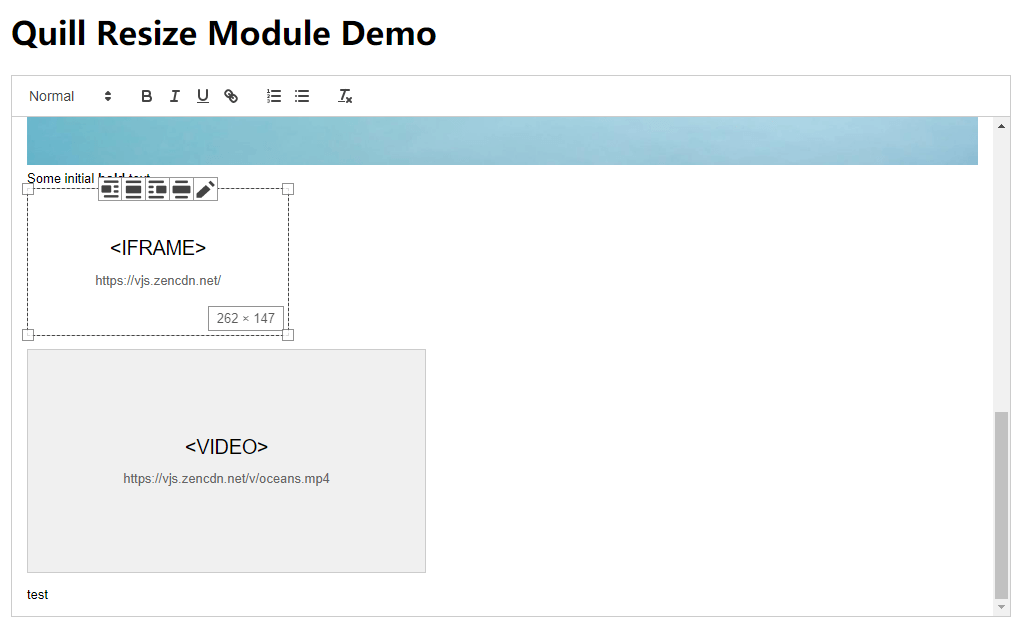
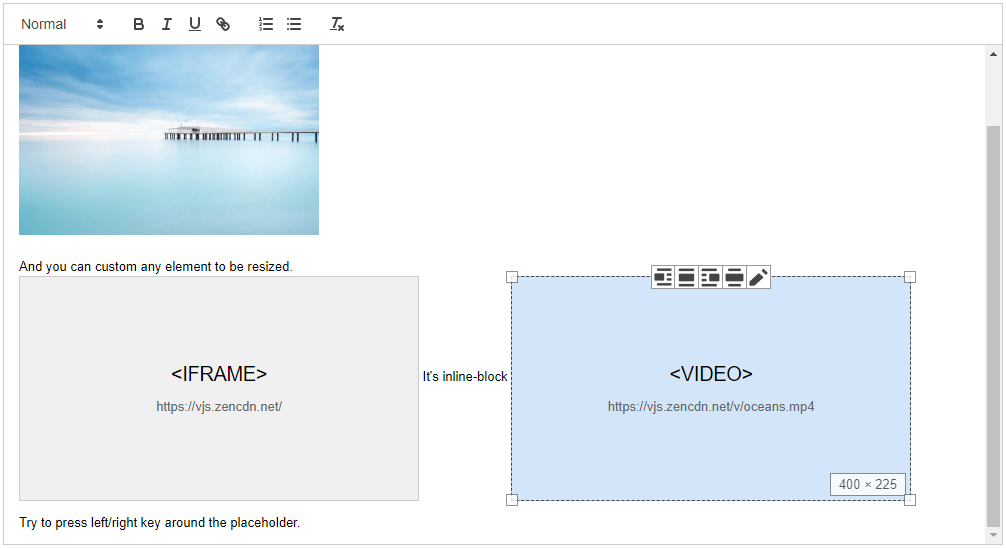
update demo

diff --git a/demo/umd.html b/demo/umd.html
@@ -52,16 +52,14 @@
   <h1>Quill Resize Module Demo</h1>
   <div class="editor-box">
     <div id="editor">
-      <p>Click on the Image Below to resize</p>
-      <p><img src="http://n.sinaimg.cn/sinacn10101/486/w2048h1638/20190518/9909-hwzkfpv0668515.jpg"></p>
-      <p>Some initial <strong>bold</strong> text</p>
-      <div>
-        <iframe src="https://vjs.zencdn.net/" frameborder="0"
-          style="background-color: transparent; width: 500px; height: 281px;"></iframe>
-        <video src="https://vjs.zencdn.net/v/oceans.mp4" controls preload="auto"
-          poster="https://vjs.zencdn.net/v/oceans.png"></video>
-      </div>
-      <div>test</div>
+      <p>Click on the Image to resize.</p>
+      <p><img src="http://n.sinaimg.cn/sinacn10101/486/w2048h1638/20190518/9909-hwzkfpv0668515.jpg" style="width: 300px;"></p>
+      <p><br></p>
+      <p>And you can custom any element to be resized.</p>
+      <p><iframe src="https://vjs.zencdn.net/" frameborder="0"></iframe>
+        It's inline-block
+        <video src="https://vjs.zencdn.net/v/oceans.mp4" controls preload="auto" poster="https://vjs.zencdn.net/v/oceans.png"></video></p>
+      <p>Try to press left/right key around the placeholder.</p>
     </div>
   </div>
   <div class="buttons">

diff --git a/demo/index.html b/demo/index.html
@@ -50,9 +50,10 @@
   <h1>Quill Resize Module Demo</h1>
   <div class="editor-box">
     <div id="editor">
-      <p>Click on the Image Below to resize</p>
+      <p>Click on the Image to resize.</p>
       <p><img src="http://n.sinaimg.cn/sinacn10101/486/w2048h1638/20190518/9909-hwzkfpv0668515.jpg"></p>
-      <p>Some initial <strong>bold</strong> text</p>
+      <p><br></p>
+      <p>And you can custom any element to be resized.</p>
       <div>
         <iframe src="https://vjs.zencdn.net/" frameborder="0"></iframe>
         <iframe src="https://22222/" frameborder="0"></iframe>
@@ -64,7 +65,7 @@
         <span class="ql-embed" data-type="ql-embed" data-src="test://ql-embed"
           style="background-color: beige;">ddd</span>
       </div>
-      <p>test</p>
+      <p>Try to press left/right key around the placeholder.</p>
     </div>
   </div>
   <div class="buttons">
